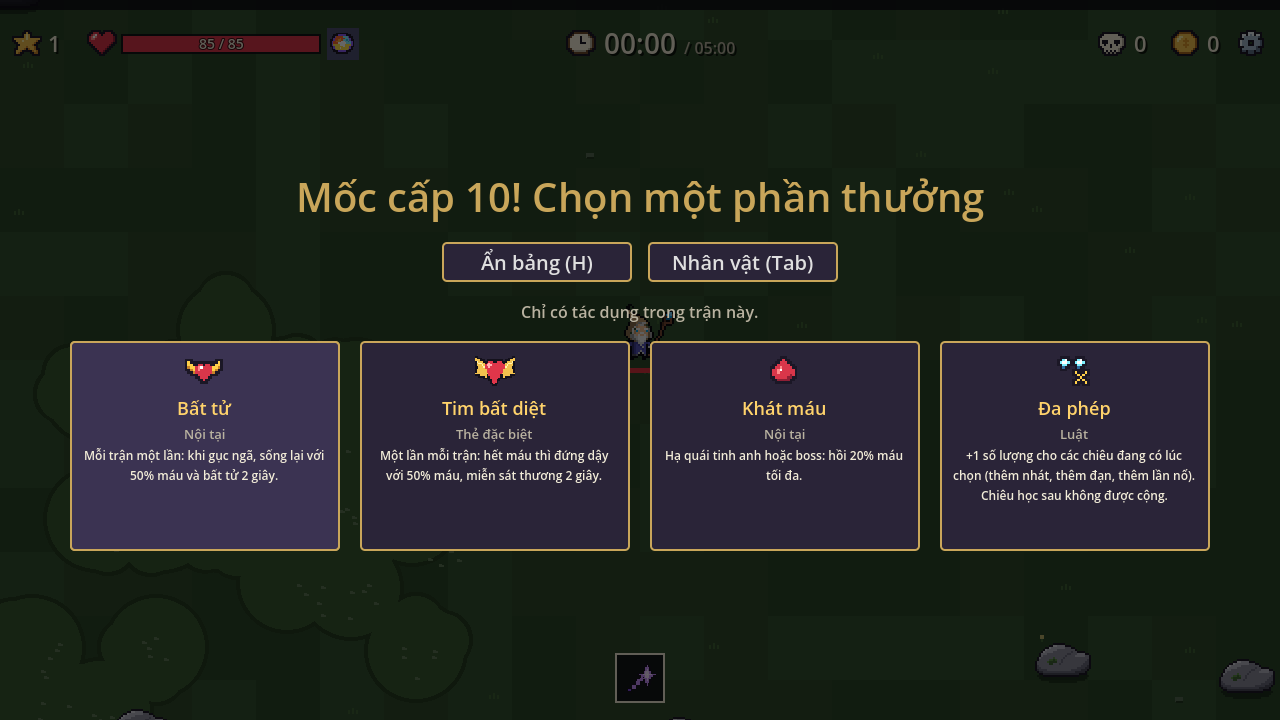
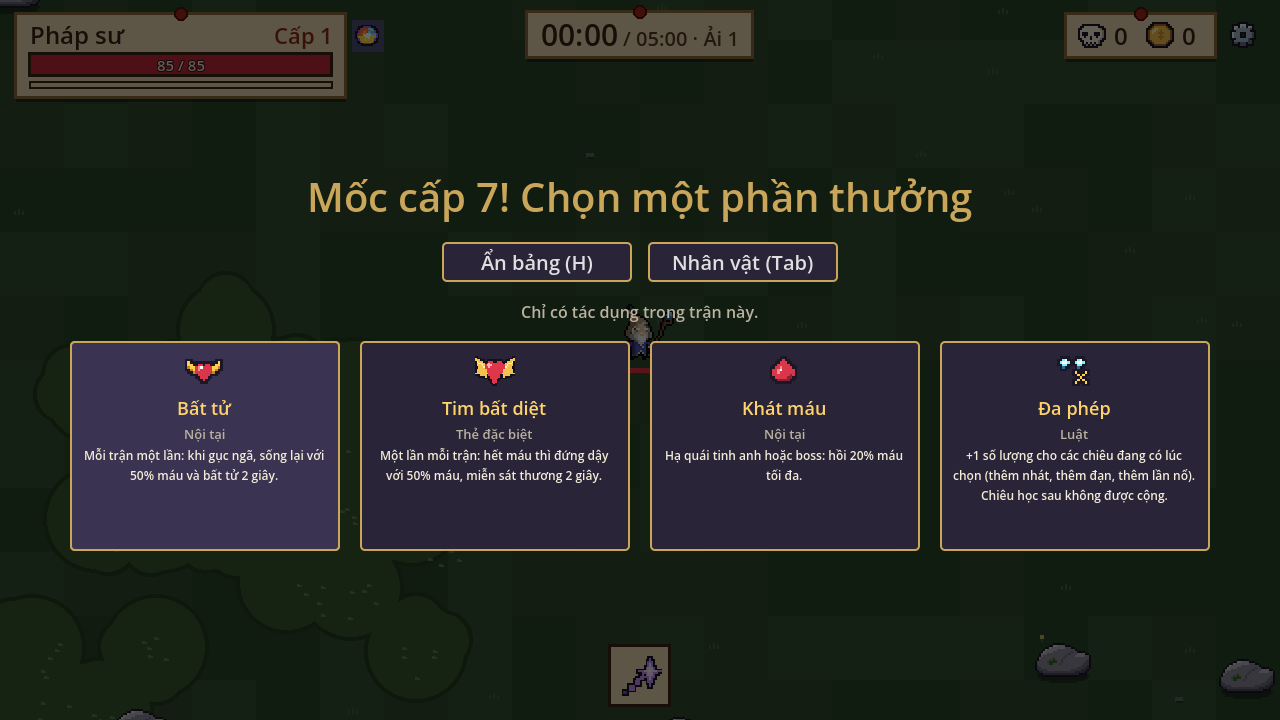
feat(balance): level milestones at 7/14/21 instead of 10/20/30
A 5-minute run ends near level 21 (xp to next grows x1.22 per level), so
the level 30 milestone never came. The milestone levels are the keys of
milestones.json; tests, comments and design docs follow.

Verified: gamekit test: 509 passed, 0 failed; ui-shots 08-milestone (Mốc cấp 7) viewed
Design: design/progression.md

diff --git a/design/master.md b/design/master.md
@@ -29,7 +29,7 @@ chiêu riêng, sức mạnh lâu dài vào cây kỹ năng, trang bị và gacha
 │ TIỀN TRẬN (sáng, sảnh)                                       │
 │  Tiêu đề ─ Chọn nhân vật ─ Sảnh chuẩn bị                    │
 │                                                              │
-│  Sảnh: thẻ chỉ số (gồm trang bị), nội tại, chiêu, mốc 10/20/30 │
+│  Sảnh: thẻ chỉ số (gồm trang bị), nội tại, chiêu, mốc 7/14/21 │
 │   ├─ Trang bị (Màn Trang bị)                                 │
 │   ├─ Cây kỹ năng (design/skill-tree-v2.md)                │
 │   ├─ Gacha (Đợt 5, design/gacha.md)                          │
@@ -40,7 +40,7 @@ chiêu riêng, sức mạnh lâu dài vào cây kỹ năng, trang bị và gacha
 │ TRẬN CHIẾN (tối, trong ải)                                    │
 │  Di chuyển → chiêu tự đánh → quái rơi kinh nghiệm/vàng        │
 │  → lên cấp → 3 thẻ → sống tới hết giờ + boss (ải 10/20/30)    │
-│  → mốc cấp 10/20/30: 1/3 phần thưởng cho trận đó              │
+│  → mốc cấp 7/14/21: 1/3 phần thưởng cho trận đó              │
 └───────────────────────────┬──────────────────────────────────┘
                             ▼
 ┌──────────────────────────────────────────────────────────────┐
@@ -63,7 +63,7 @@ chiêu riêng, sức mạnh lâu dài vào cây kỹ năng, trang bị và gacha
 | 14 | Chế độ Thử thách | ✅ | `design/challenge.md` | thử thách luật riêng, rơi Tẩy Tủy Đan |
 | 7 | Trang bị | ✅ | `design/equipment.md` | 5 ô, độ hiếm, màn trang bị, cường hoá +1..+5 bằng vàng |
 | 8 | Gacha | ✅ lõi | `design/gacha.md` | 2 banner, 10 đá/lượt, pity 50, trùng → vàng |
-| 9 | Mốc cấp 10/20/30 (trong trận) | ✅ | `design/progression.md` (mục mốc) | 6 chiêu độc nhất, 3 nội tại, 3 luật; chỉ trong trận |
+| 9 | Mốc cấp 7/14/21 (trong trận) | ✅ | `design/progression.md` (mục mốc) | 6 chiêu độc nhất, 3 nội tại, 3 luật; chỉ trong trận |
 | 10 | Slot nhân vật | ✅ | `design/progression.md` (mục slot) | tối đa 4 slot, schema v1 |
 | 11 | Trang bị rơi (elite) | ✅ | `assets/data/run_config.json` (rewards) | thắng ải 1 món, rương tinh anh 25% |
 | 12 | UX / màn hình | 🛠 | `design/ux/` | xem `ux/ui-style.md` cho hướng thiết kế |
@@ -86,7 +86,7 @@ chiêu riêng, sức mạnh lâu dài vào cây kỹ năng, trang bị và gacha
 ```text
 Lần đầu → Tiêu đề → Chọn nhân vật (tạo Kiếm sĩ/Pháp sư) → Sảnh → Chọn ải 1
 → Ải 1: slime, dơi, goblin; 5 phút; thắng → Kết quả → Sảnh → Ải 2 (hoặc ải 1 lại)
-→ Ải 3…10 (Vua Thạch Nhầy); trong trận lên cấp 10/20/30 chọn 1/3 phần thưởng mốc → Ải 11…20 (boss ải 20)
+→ Ải 3…10 (Vua Thạch Nhầy); trong trận lên cấp 7/14/21 chọn 1/3 phần thưởng mốc → Ải 11…20 (boss ải 20)
 → Ải 21…30 (boss ải 30) → slot mạnh dần qua cây kỹ năng + trang bị
 → Mở ải 31+ (vùng mới) khi có đủ 30/30 (hoặc vượt ải 30 đủ số lần)
 ```

diff --git a/design/progression.md b/design/progression.md
@@ -48,7 +48,9 @@
 - Màn kết quả hiện vàng, đá nhận được; khi thắng có nút **Ải tiếp ▶**.
 - Đá dùng cho gacha ở đợt 5; đợt 3 chỉ tích luỹ.
 
-## Phần thưởng mốc cấp 10/20/30
+## Phần thưởng mốc cấp 7/14/21
+
+Mốc đổi từ 10/20/30 sang **7/14/21** (người dùng 2026-11-27): trận 5 phút chỉ lên khoảng cấp 21 (KN tăng ×1,22 mỗi cấp), nên cấp 30 không bao giờ tới.
 
 Người dùng 2026-11-17: mốc là **cấp của nhân vật trong trận**, phần thưởng **chỉ có tác dụng trong trận đó**.
 Lên cấp 10, 20, 30 → bảng "Mốc cấp N! Chọn một phần thưởng" mở trước thẻ lên cấp thường; chọn **1 trong 3**.
@@ -79,7 +81,7 @@ dùng mốc cấp thay cho rương boss vì mỗi ải là một trận 5 phút.
 - `tests/unit/core/stages_test.gd`: công thức đơn điệu tăng, không nhảy vọt; ải boss; chọn file lịch quái.
 - `tests/unit/meta/slot_test.gd`: lưu/đọc, phiên bản, file hỏng không làm mất slot khác, phần thưởng lần đầu/lặp lại,
   slot không giữ phần thưởng mốc.
-- `tests/unit/run/milestone_test.gd`: mỗi phần thưởng có tác dụng trong trận; cấp 10/20/30 mở bảng chọn mỗi mốc
+- `tests/unit/run/milestone_test.gd`: mỗi phần thưởng có tác dụng trong trận; cấp 7/14/21 mở bảng chọn mỗi mốc
   một lần. `tests/integration/meta/session_test.gd`: phần thưởng không ghi vào slot, trận sau bắt đầu không có.
 - `tests/integration/data/data_consistency_test.gd`: chiêu độc nhất có trong `upgrades_<class>.json` với `unique`,
   không xuất hiện trong bộ thẻ khi chưa có.

diff --git a/design/game-brief.md b/design/game-brief.md
@@ -78,7 +78,7 @@ Phút 2–3 của ải 1 đợt dơi bay nhanh vây quanh, phút 4 có quái tin
 ## Build order
 1. Lượt chơi 5 phút với Kiếm sĩ ở ải 1: di chuyển, 2 chiêu tự đánh, 3 loại quái theo đợt, kinh nghiệm + lên cấp 1/3, thua/thắng (đợt 1 của roadmap). Kèm thử tải 500 quái.
 2. Độ sâu build: Pháp sư, đủ bộ nâng cấp 2 class, quái tinh anh, boss ải 10.
-3. Tiến trình ải 1–30, chọn ải, lưu slot, hiệu ứng mốc 10/20/30.
+3. Tiến trình ải 1–30, chọn ải, lưu slot, hiệu ứng mốc 7/14/21.
 4. Cây kỹ năng + trang bị.
 5. Gacha.
 6. Nội dung đủ 100 ải, 4 class, cân bằng.

diff --git a/design/assassin.md b/design/assassin.md
@@ -25,7 +25,7 @@ Người dùng 2026-11-26: nhân vật do người dùng vẽ (`sprite-lab/sourc
 | throw_knife | Phi đao | chiêu khởi đầu: ném dao vào quái gần nhất, tầm gần; cấp 3: 2 dao, cấp 5: 3 dao |
 | dash | Lướt | dùng chung |
 
-Thẻ chỉ số: Tay lẹ (hồi chiêu), Dao bén (sát thương), Thêm dao, cùng các thẻ chung. Thẻ đặc biệt mốc 10/20/30:
+Thẻ chỉ số: Tay lẹ (hồi chiêu), Dao bén (sát thương), Thêm dao, cùng các thẻ chung. Thẻ đặc biệt mốc 7/14/21:
 Bước ảnh, Săn mồi, Màn đêm, Vòng dao, Dao sấm, Ảnh tốc (cùng cơ chế với bộ của Cung thủ).
 
 ## Mở khóa class

diff --git a/design/classes.md b/design/classes.md
@@ -1,7 +1,7 @@
 # Class và nội tại
 
 Mỗi class có **một nội tại riêng** (`classes.json` → `passive`), luôn bật từ đầu lượt, không phải thẻ. Nội tại
-cho class một lối chơi riêng mà thẻ không thay được. Các mốc cấp 10/20/30 trong trận không nâng nội tại này mà cho một
+cho class một lối chơi riêng mà thẻ không thay được. Các mốc cấp 7/14/21 trong trận không nâng nội tại này mà cho một
 phần thưởng **mới** (chiêu độc nhất, nội tại mới hoặc luật mới): xem `design/progression.md`.
 
 | Class | Vai trò | Nội tại | Tác dụng | Trạng thái |
